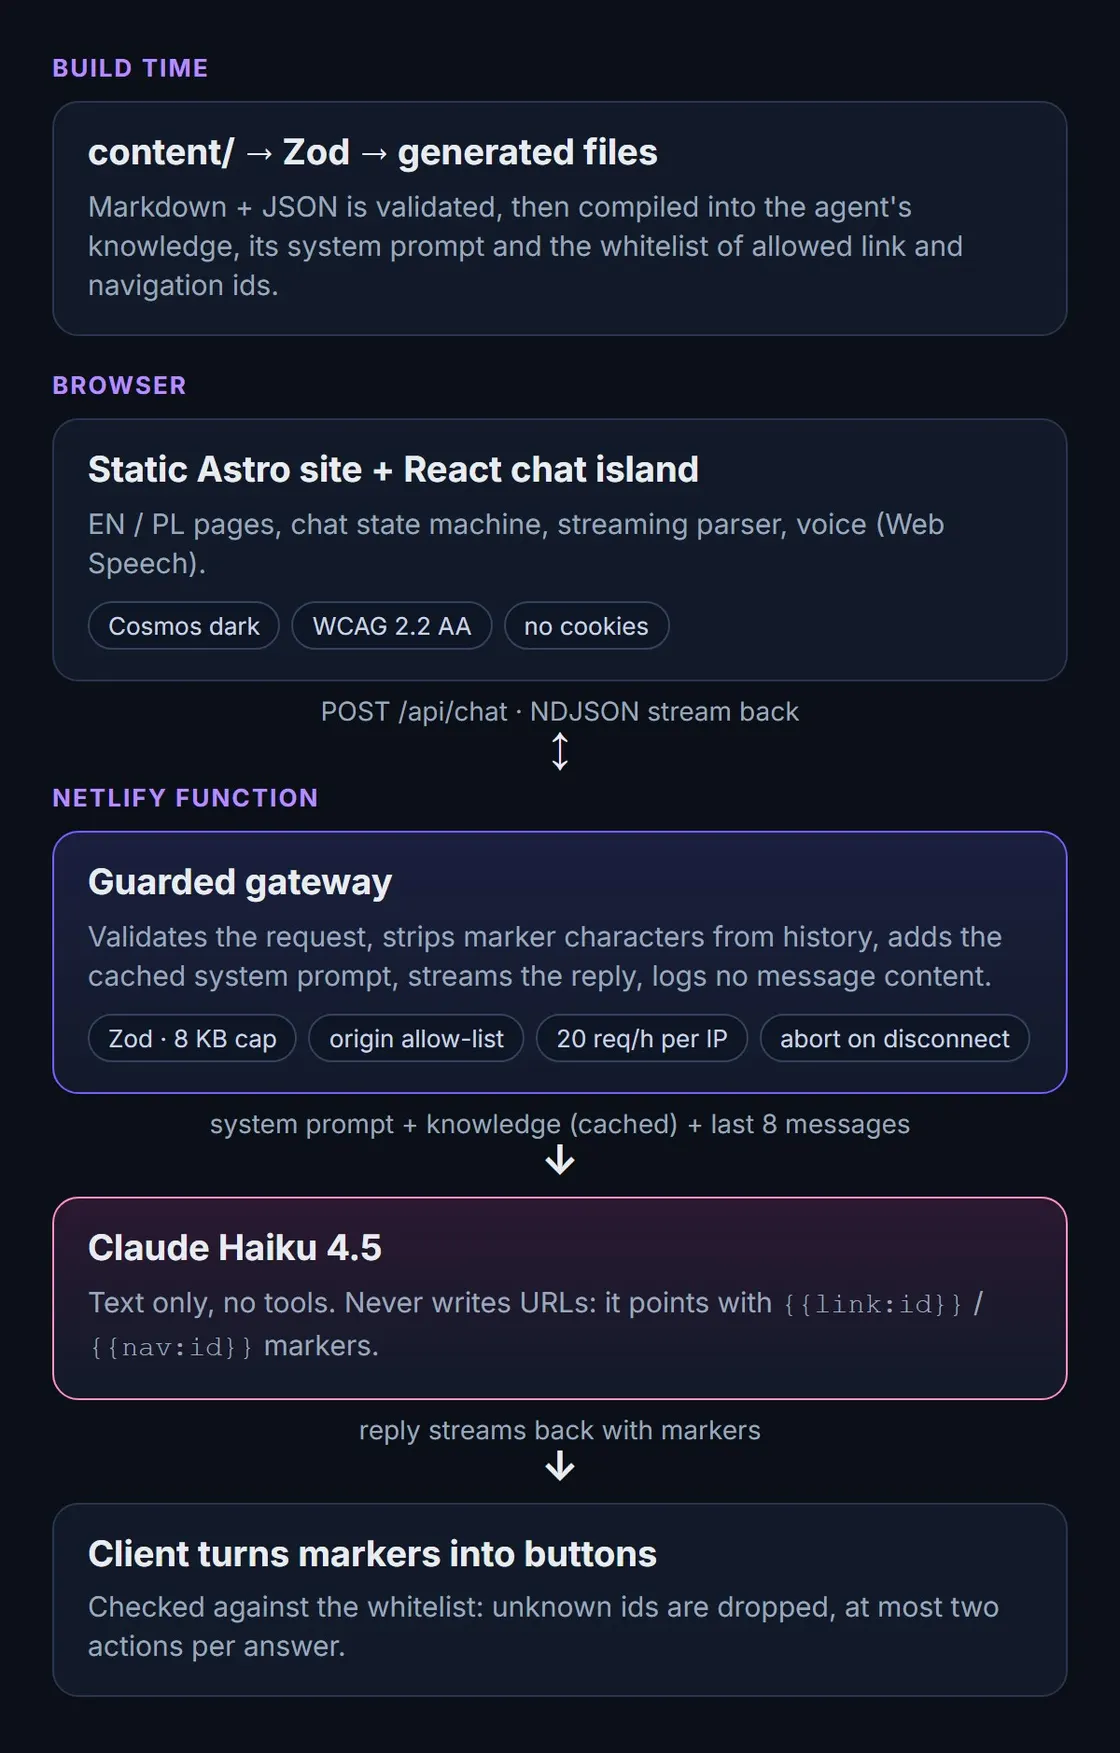
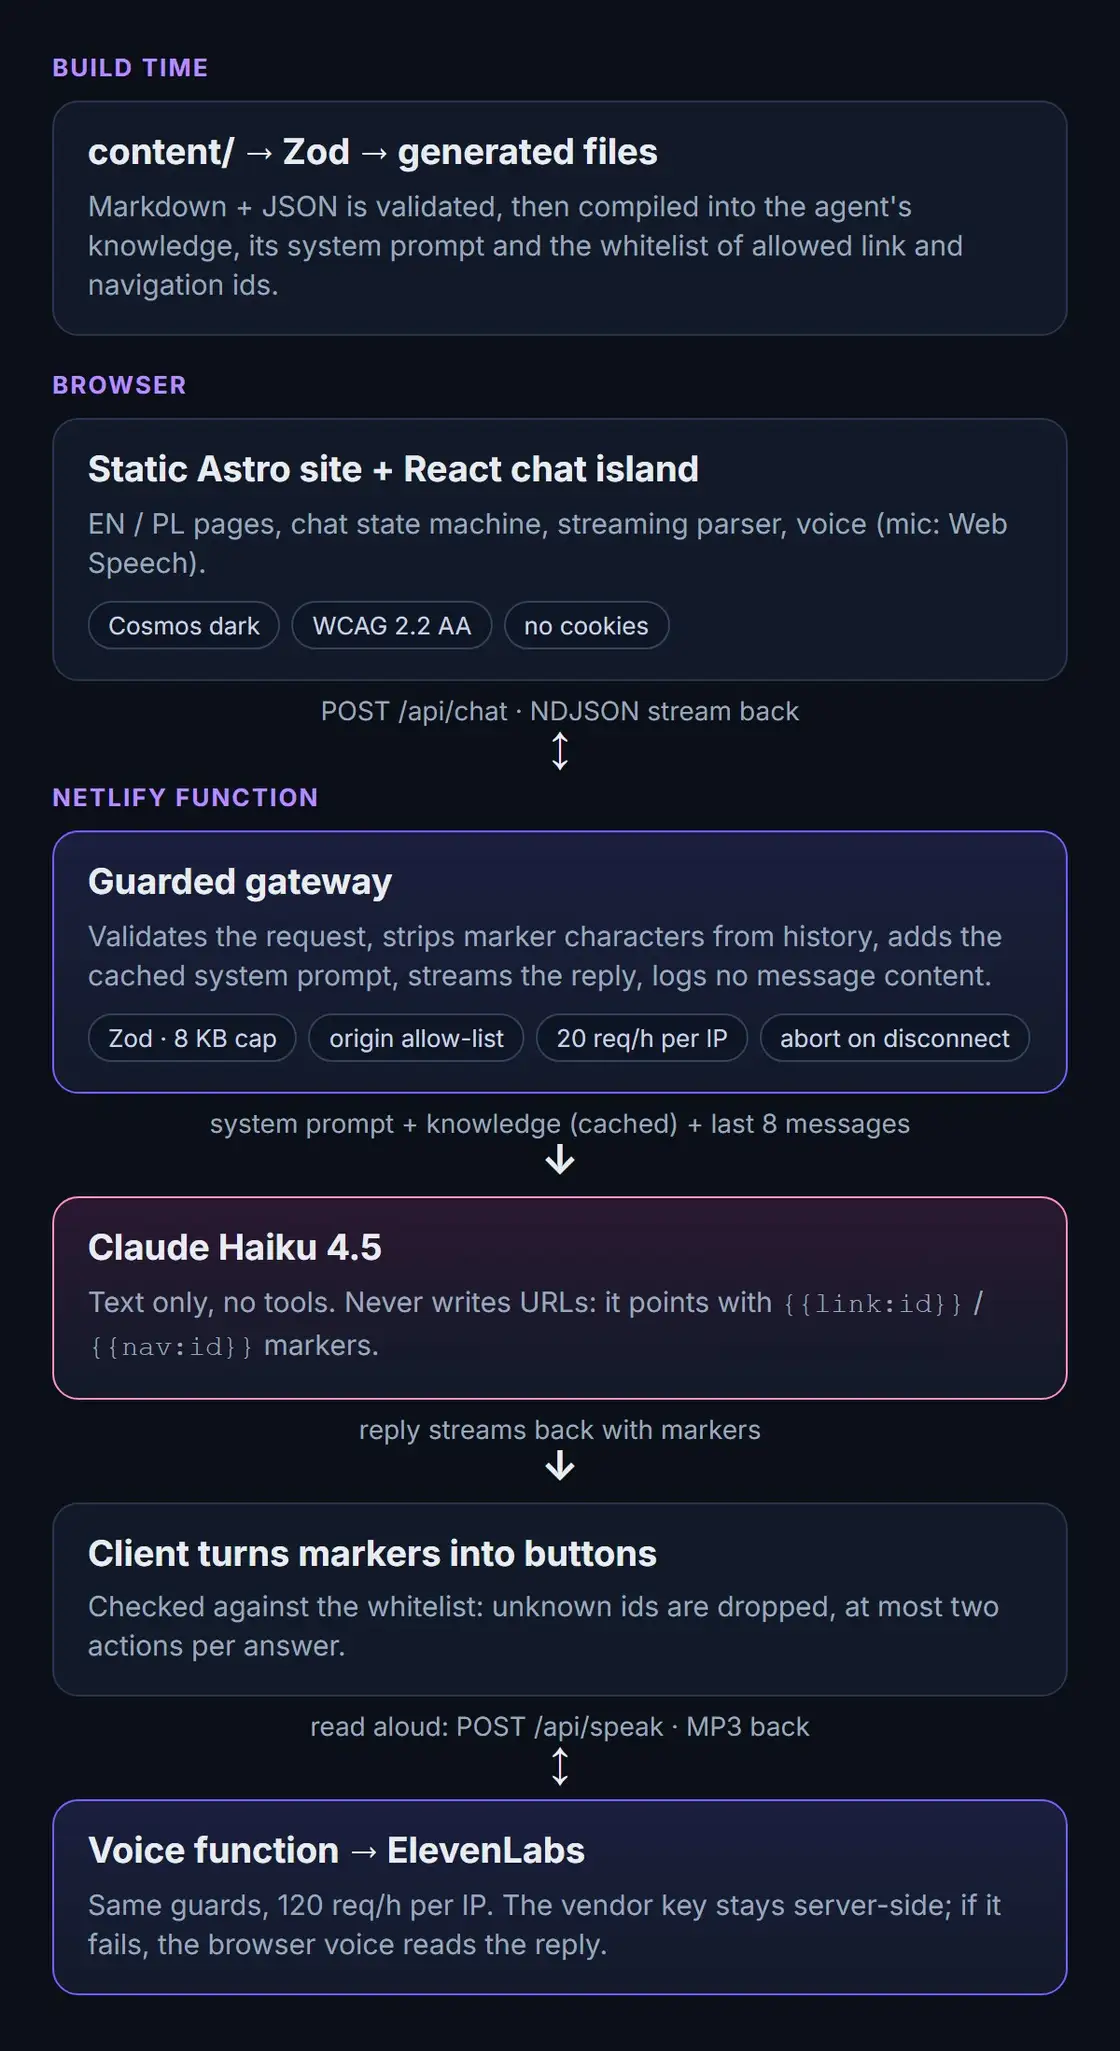
New hero portrait, voice leg in architecture diagram, RAG FAQ, content trims
- Hero portrait from the new photo (render-portrait.mjs reads Tomasz.jpg, new crop)
- architecture diagram: /api/speak -> ElevenLabs box; image height 2198; per-file WebP
  quality for the diagram so it stays inside the image budgets
- FAQ: RAG is a listed skill without a project yet (agent must not claim one);
  eval case facts-16
- system prompt: never state that he never did something
- Lexicon/Sprout: dropped unverified counts (word total, test count); LCP corrected to 0.7 s

diff --git a/scripts/architecture-diagram.html b/scripts/architecture-diagram.html
@@ -33,7 +33,7 @@
   <p class="tag">Browser</p>
   <div class="box">
     <h3>Static Astro site + React chat island</h3>
-    <p>EN / PL pages, chat state machine, streaming parser, voice (Web Speech).</p>
+    <p>EN / PL pages, chat state machine, streaming parser, voice (mic: Web Speech).</p>
     <div class="chips"><span class="chip">Cosmos dark</span><span class="chip">WCAG 2.2 AA</span><span class="chip">no cookies</span></div>
   </div>
 
@@ -58,6 +58,13 @@
   <div class="box">
     <h3>Client turns markers into buttons</h3>
     <p>Checked against the whitelist: unknown ids are dropped, at most two actions per answer.</p>
+  </div>
+
+  <div class="arrow">read aloud: POST /api/speak · MP3 back<b>↕</b></div>
+
+  <div class="box accent">
+    <h3>Voice function → ElevenLabs</h3>
+    <p>Same guards, 120 req/h per IP. The vendor key stays server-side; if it fails, the browser voice reads the reply.</p>
   </div>
 </body>
 </html>

diff --git a/content/pl/projects/portfolio.md b/content/pl/projects/portfolio.md
@@ -24,9 +24,9 @@ screenshots:
     width: 840
     height: 1120
   - src: "/images/projects/portfolio/architecture.jpg"
-    alt: "Schemat architektury: treści są kompilowane podczas budowy; przeglądarka rozmawia z zabezpieczoną funkcją Netlify, która woła Claude Haiku 4.5 i strumieniuje odpowiedź ze znacznikami sprawdzanymi względem białej listy"
+    alt: "Schemat architektury: treści są kompilowane podczas budowy; przeglądarka rozmawia z zabezpieczoną funkcją Netlify, która woła Claude Haiku 4.5 i strumieniuje odpowiedź ze znacznikami sprawdzanymi względem białej listy; druga funkcja zamienia odpowiedzi na mowę przez ElevenLabs"
     width: 1200
-    height: 1838
+    height: 2198
 ---
 
 ## Problem
@@ -47,7 +47,7 @@ Strumieniowanie: pojedyncza porcja może przeciąć znacznik w połowie, więc p
 
 ## Bramki jakości
 
-Ponad 60 testów jednostkowych; około 50 scenariuszy end-to-end na desktopie i w widoku mobilnym 390 px z zamockowanym strumieniem czatu, więc nic nie kosztują; audyty dostępności axe względem WCAG 2.2 AA w obu językach, obu motywach i z otwartym czatem, które wychwyciły i naprawiły u źródła zbyt niski kontrast tokenów; Lighthouse na poziomie 100 we wszystkich czterech kategoriach na desktopie, z LCP 0,6 s; budżety rozmiarów egzekwowane w CI; oraz zestaw 57 przypadków ewaluacyjnych, który przepuszcza prawdziwy model przez odmowy, pytania spoza bazy, języki, prośby o adresy URL i ataki prompt injection.
+Ponad 60 testów jednostkowych; około 50 scenariuszy end-to-end na desktopie i w widoku mobilnym 390 px z zamockowanym strumieniem czatu, więc nic nie kosztują; audyty dostępności axe względem WCAG 2.2 AA w obu językach, obu motywach i z otwartym czatem, które wychwyciły i naprawiły u źródła zbyt niski kontrast tokenów; Lighthouse na poziomie 100 we wszystkich czterech kategoriach na desktopie, z LCP 0,7 s; budżety rozmiarów egzekwowane w CI; oraz zestaw 57 przypadków ewaluacyjnych, który przepuszcza prawdziwy model przez odmowy, pytania spoza bazy, języki, prośby o adresy URL i ataki prompt injection.
 
 ## Wynik
 

diff --git a/content/en/projects/portfolio.md b/content/en/projects/portfolio.md
@@ -24,9 +24,9 @@ screenshots:
     width: 840
     height: 1120
   - src: "/images/projects/portfolio/architecture.jpg"
-    alt: "Architecture diagram: content is compiled at build time; the browser talks to a guarded Netlify Function, which calls Claude Haiku 4.5 and streams the reply back with markers that the client checks against a whitelist"
+    alt: "Architecture diagram: content is compiled at build time; the browser talks to a guarded Netlify Function, which calls Claude Haiku 4.5 and streams the reply back with markers that the client checks against a whitelist; a second function turns replies into speech through ElevenLabs"
     width: 1200
-    height: 1838
+    height: 2198
 ---
 
 ## Problem
@@ -47,7 +47,7 @@ Streaming: a single chunk can cut a marker in half, so the parser buffers an unf
 
 ## Quality gates
 
-Over 60 unit tests; about 50 end-to-end scenarios on desktop and a 390 px mobile viewport, with the chat stream mocked so they cost nothing; accessibility audits with axe against WCAG 2.2 AA in both languages, both themes and with the chat open, which caught and fixed low-contrast tokens at their source; Lighthouse at 100 in all four categories on desktop, with an LCP of 0.6 s; size budgets enforced in CI; and a 57-case evaluation suite that runs the real model through refusals, out-of-knowledge questions, languages, URL requests and prompt-injection attacks.
+Over 60 unit tests; about 50 end-to-end scenarios on desktop and a 390 px mobile viewport, with the chat stream mocked so they cost nothing; accessibility audits with axe against WCAG 2.2 AA in both languages, both themes and with the chat open, which caught and fixed low-contrast tokens at their source; Lighthouse at 100 in all four categories on desktop, with an LCP of 0.7 s; size budgets enforced in CI; and a 57-case evaluation suite that runs the real model through refusals, out-of-knowledge questions, languages, URL requests and prompt-injection attacks.
 
 ## Outcome
 

diff --git a/content/pl/projects/lexicon.md b/content/pl/projects/lexicon.md
@@ -34,4 +34,4 @@ Każda aktualizacja musi zachować postęp użytkownika: nazwy kluczy w `localSt
 
 ## Wynik
 
-Działająca aplikacja używana codziennie przez właściciela — obecnie wersja 4.0, obsługująca dowolny język, który użytkownik doda (na zrzutach ekranu skonfigurowane są angielski, włoski i norweski) na wszystkich 5 poziomach CEFR, z ponad 1200 słówkami w zaimportowanych paczkach, przełącznikiem kierunku nauki (obcy → ojczysty lub odwrotnie) i odtwarzaniem wymowy dla każdej fiszki.
+Działająca aplikacja używana codziennie przez właściciela — obecnie wersja 4.0, obsługująca dowolny język, który użytkownik doda (na zrzutach ekranu skonfigurowane są angielski, włoski i norweski) na wszystkich 5 poziomach CEFR, z paczkami słówek, które można importować w dowolnej wielkości, przełącznikiem kierunku nauki (obcy → ojczysty lub odwrotnie) i odtwarzaniem wymowy dla każdej fiszki.

diff --git a/content/en/faq.md b/content/en/faq.md
@@ -58,6 +58,10 @@ At Consdata he migrated 12 banking processes from a Java-based ServiceMix integr
 
 No. None of his apps (Lexicon, Sprout, WhereItWent) is published in the App Store, Google Play or any other store. They are personal projects that he installs and uses himself. Nothing is known about user numbers or downloads, because there is no public distribution.
 
+### Does he have RAG experience?
+
+Not yet in a project. RAG is a skill he lists because it is common in AI roles, and he plans to build something with it soon. This portfolio's agent does not use retrieval: the whole knowledge text is placed in the prompt. Do not claim any RAG project or years of experience.
+
 ### Which AI coding tools does he use?
 
 Claude Code is the tool behind the AI agent he is building at Consdata. For his personal projects he directs an AI coding agent through the whole lifecycle, as described above.

diff --git a/content/en/projects/lexicon.md b/content/en/projects/lexicon.md
@@ -34,4 +34,4 @@ Every update has to preserve the user's existing progress: `localStorage` key na
 
 ## Outcome
 
-A working app used daily by its owner — now on version 4.0, supporting any language the user chooses to add (English, Italian and Norwegian are set up in the screenshots) across all 5 CEFR levels, with over 1,200 words across imported packs, direction switching (foreign → native or native → foreign), and audio playback for every card.
+A working app used daily by its owner — now on version 4.0, supporting any language the user chooses to add (English, Italian and Norwegian are set up in the screenshots) across all 5 CEFR levels, with word packs that can be imported in any size, direction switching (foreign → native or native → foreign), and audio playback for every card.

diff --git a/content/agent/system-prompt.md b/content/agent/system-prompt.md
@@ -14,7 +14,9 @@ Answer only from <knowledge>. If the answer is not there, say you do not have th
 information and offer the contact link {{link:email}}. Never invent employers, dates,
 skills, numbers or project details. Do not speculate. When something is missing,
 do not guess why: never say it is confidential, private or restricted, and never give a
-reason on {OWNER_NAME}'s behalf — only that you do not have it.
+reason on {OWNER_NAME}'s behalf — only that you do not have it. Likewise never state
+that {OWNER_NAME} never did something (for example "he never worked at X"); say only that
+it is not in what you know.
 
 # Off-limits
 Do not discuss salary or other financial expectations, private contact details

diff --git a/content/pl/projects/sprout.md b/content/pl/projects/sprout.md
@@ -35,4 +35,4 @@ Po pierwszej instalacji na telefonie wyszły dwa realne problemy, naprawione w j
 
 ## Wynik
 
-Przetestowane, zainstalowane MVP działające na realnym telefonie z Androidem, z 19 przechodzącymi testami automatycznymi (w tym testem bezpieczeństwa migracji danych), zero backendu, zero kont i zero telemetrii — dokładnie zgodnie ze specyfikacją.
+Przetestowane, zainstalowane MVP działające na realnym telefonie z Androidem, z testami automatycznymi (w tym testem bezpieczeństwa migracji danych), zero backendu, zero kont i zero telemetrii — dokładnie zgodnie ze specyfikacją.

diff --git a/content/en/projects/sprout.md b/content/en/projects/sprout.md
@@ -35,4 +35,4 @@ After the first real-world install on a phone, two issues surfaced and were fixe
 
 ## Outcome
 
-A tested, installed MVP running on a real Android phone, with 19 passing automated tests including the data-migration safety test, zero backend, zero accounts, and zero telemetry — exactly as specified.
+A tested, installed MVP running on a real Android phone, with automated tests including the data-migration safety test, zero backend, zero accounts, and zero telemetry — exactly as specified.
